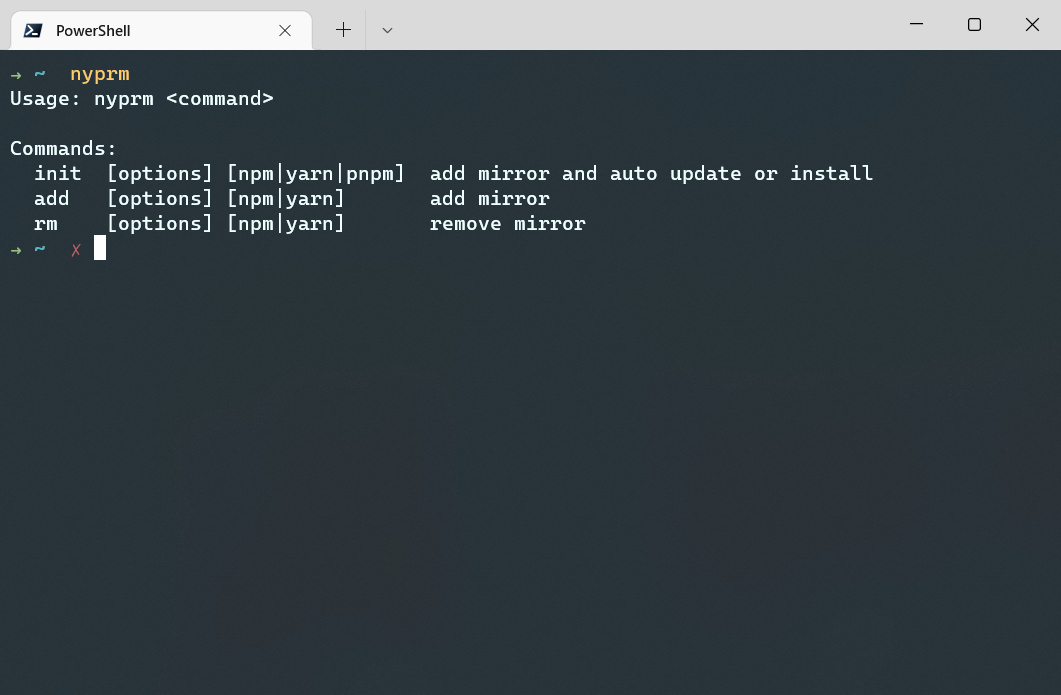
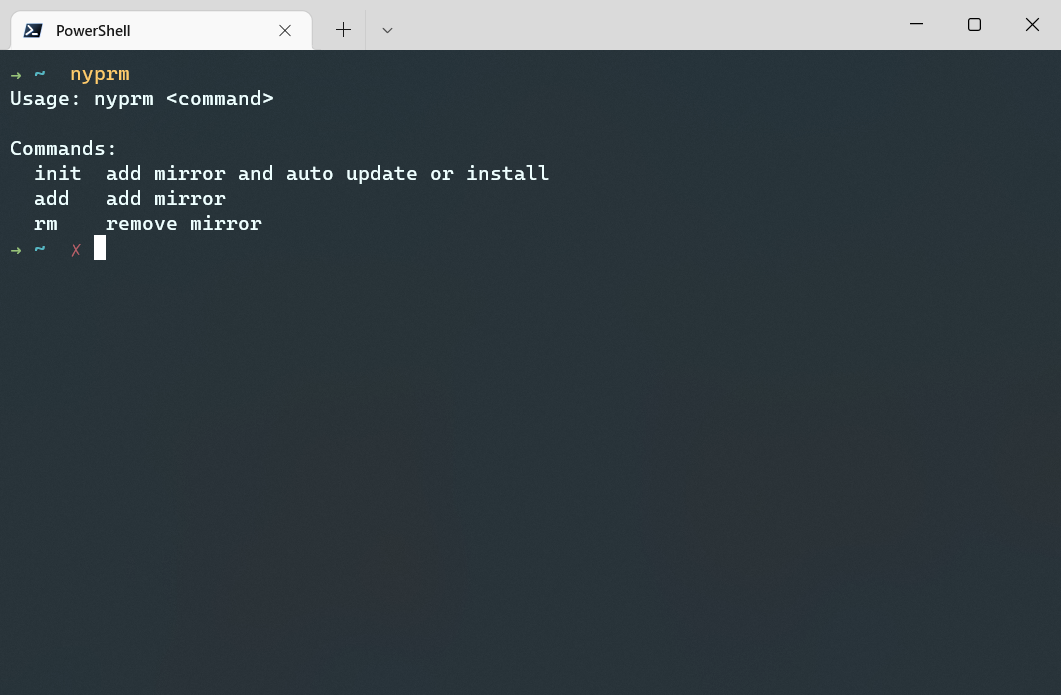
添加二进制文件镜像

Changed region(s): [[0.0933, 0.2417, 0.8087, 0.3324]]

diff --git a/nyprm.c b/nyprm.c
@@ -9,9 +9,9 @@ int main(int argc, char* argv[])
 		printf("Usage: nyprm <command>\n");
 		printf("\n");
 		printf("Commands:\n");
-		printf("  init  [options] [npm|yarn|pnpm]  add mirror and auto update or install\n");
-		printf("  add   [options] [npm|yarn]       add mirror\n");
-		printf("  rm    [options] [npm|yarn]       remove mirror\n");
+		printf("  init  add mirror and auto update or install\n");
+		printf("  add   add mirror\n");
+		printf("  rm    remove mirror\n");
 		return -1;
 	}
 	else if (argc == 2)
@@ -24,10 +24,47 @@ int main(int argc, char* argv[])
 
 			system("yarn config set registry https://registry.npmmirror.com/");
 
-			system("npm config set ELECTRON_MIRROR https://npmmirror.com/mirrors/electron/");
-			system("npm config set ELECTRON_BUILDER_BINARIES_MIRROR https://npmmirror.com/mirrors/electron-builder-binaries/");
-			system("yarn config set ELECTRON_MIRROR https://npmmirror.com/mirrors/electron/");
-			system("yarn config set ELECTRON_BUILDER_BINARIES_MIRROR https://npmmirror.com/mirrors/electron-builder-binaries/");
+			system("npm config set NODEJS_ORG_MIRROR https://cdn.npmmirror.com/binaries/node");
+			system("npm config set NVM_NODEJS_ORG_MIRROR https://cdn.npmmirror.com/binaries/node");
+			system("npm config set PHANTOMJS_CDNURL https://cdn.npmmirror.com/binaries/phantomjs");
+			system("npm config set CHROMEDRIVER_CDNURL https://cdn.npmmirror.com/binaries/chromedriver");
+			system("npm config set OPERADRIVER_CDNURL https://cdn.npmmirror.com/binaries/operadriver");
+			system("npm config set ELECTRON_MIRROR https://cdn.npmmirror.com/binaries/electron/");
+			system("npm config set ELECTRON_BUILDER_BINARIES_MIRROR https://cdn.npmmirror.com/binaries/electron-builder-binaries/");
+			system("npm config set SASS_BINARY_SITE https://cdn.npmmirror.com/binaries/node-sass");
+			system("npm config set SWC_BINARY_SITE https://cdn.npmmirror.com/binaries/node-swc");
+			system("npm config set NWJS_URLBASE https://cdn.npmmirror.com/binaries/nwjs/v");
+			system("npm config set PUPPETEER_DOWNLOAD_HOST https://cdn.npmmirror.com/binaries");
+			system("npm config set SENTRYCLI_CDNURL https://cdn.npmmirror.com/binaries/sentry-cli");
+			system("npm config set SAUCECTL_INSTALL_BINARY_MIRROR https://cdn.npmmirror.com/binaries/saucectl");
+			system("npm config set RE2_DOWNLOAD_MIRROR https://cdn.npmmirror.com/binaries/node-re2");
+			system("npm config set RE2_DOWNLOAD_SKIP_PATH true");
+			system("npm config set npm_config_keytar_binary_host https://cdn.npmmirror.com/binaries/keytar");
+			system("npm config set npm_config_sharp_binary_host https://cdn.npmmirror.com/binaries/sharp");
+			system("npm config set npm_config_sharp_libvips_binary_host https://cdn.npmmirror.com/binaries/sharp-libvips");
+			system("npm config set npm_config_robotjs_binary_host https://cdn.npmmirror.com/binaries/robotjs");
+
+			system("yarn config set NODEJS_ORG_MIRROR https://cdn.npmmirror.com/binaries/node");
+			system("yarn config set NVM_NODEJS_ORG_MIRROR https://cdn.npmmirror.com/binaries/node");
+			system("yarn config set PHANTOMJS_CDNURL https://cdn.npmmirror.com/binaries/phantomjs");
+			system("yarn config set CHROMEDRIVER_CDNURL https://cdn.npmmirror.com/binaries/chromedriver");
+			system("yarn config set OPERADRIVER_CDNURL https://cdn.npmmirror.com/binaries/operadriver");
+			system("yarn config set ELECTRON_MIRROR https://cdn.npmmirror.com/binaries/electron/");
+			system("yarn config set ELECTRON_BUILDER_BINARIES_MIRROR https://cdn.npmmirror.com/binaries/electron-builder-binaries/");
+			system("yarn config set SASS_BINARY_SITE https://cdn.npmmirror.com/binaries/node-sass");
+			system("yarn config set SWC_BINARY_SITE https://cdn.npmmirror.com/binaries/node-swc");
+			system("yarn config set NWJS_URLBASE https://cdn.npmmirror.com/binaries/nwjs/v");
+			system("yarn config set PUPPETEER_DOWNLOAD_HOST https://cdn.npmmirror.com/binaries");
+			system("yarn config set SENTRYCLI_CDNURL https://cdn.npmmirror.com/binaries/sentry-cli");
+			system("yarn config set SAUCECTL_INSTALL_BINARY_MIRROR https://cdn.npmmirror.com/binaries/saucectl");
+			system("yarn config set RE2_DOWNLOAD_MIRROR https://cdn.npmmirror.com/binaries/node-re2");
+			system("yarn config set RE2_DOWNLOAD_SKIP_PATH true");
+			system("yarn config set npm_config_keytar_binary_host https://cdn.npmmirror.com/binaries/keytar");
+			system("yarn config set npm_config_sharp_binary_host https://cdn.npmmirror.com/binaries/sharp");
+			system("yarn config set npm_config_sharp_libvips_binary_host https://cdn.npmmirror.com/binaries/sharp-libvips");
+			system("yarn config set npm_config_robotjs_binary_host https://cdn.npmmirror.com/binaries/robotjs");
+		
+			system("yarn config set -- --emoji true");
 		}
 		else if (strcmp(argv[1], "add") == 0)
 		{
@@ -38,79 +75,6 @@ int main(int argc, char* argv[])
 		{
 			system("npm config set registry https://registry.npmjs.org");
 			system("yarn config set registry https://registry.yarnpkg.com/");
-		}
-		else
-		{
-			return -1;
-		}
-	}
-	else if (argc == 3)
-	{
-		if (strcmp(argv[1], "init") == 0)
-		{
-			if (strcmp(argv[2], "npm") == 0)
-			{
-				system("npm config set registry https://registry.npmmirror.com/");
-
-				system("npm i -g npm");
-
-				system("npm config set ELECTRON_MIRROR https://npmmirror.com/mirrors/electron/");
-				system("npm config set ELECTRON_BUILDER_BINARIES_MIRROR https://npmmirror.com/mirrors/electron-builder-binaries/");
-			}
-			else if (strcmp(argv[2], "yarn") == 0)
-			{
-				system("npm config set registry https://registry.npmmirror.com/");
-
-				system("npm i -g npm yarn");
-
-				system("npm config set ELECTRON_MIRROR https://npmmirror.com/mirrors/electron/");
-				system("npm config set ELECTRON_BUILDER_BINARIES_MIRROR https://npmmirror.com/mirrors/electron-builder-binaries/");
-				system("yarn config set ELECTRON_MIRROR https://npmmirror.com/mirrors/electron/");
-				system("yarn config set ELECTRON_BUILDER_BINARIES_MIRROR https://npmmirror.com/mirrors/electron-builder-binaries/");
-			}
-			else if (strcmp(argv[2], "pnpm") == 0)
-			{
-				system("npm config set registry https://registry.npmmirror.com/");
-
-				system("npm i -g npm pnpm");
-
-				system("npm config set ELECTRON_MIRROR https://npmmirror.com/mirrors/electron/");
-				system("npm config set ELECTRON_BUILDER_BINARIES_MIRROR https://npmmirror.com/mirrors/electron-builder-binaries/");
-			}
-			else
-			{
-				return -1;
-			}
-		}
-		else if (strcmp(argv[1], "add") == 0)
-		{
-			if (strcmp(argv[2], "npm") == 0)
-			{
-				system("npm config set registry https://registry.npmmirror.com/");
-			}
-			else if (strcmp(argv[2], "yarn") == 0)
-			{
-				system("yarn config set registry https://registry.npmmirror.com/");
-			}
-			else
-			{
-				return -1;
-			}
-		}
-		else if (strcmp(argv[1], "rm") == 0)
-		{
-			if (strcmp(argv[2], "npm") == 0)
-			{
-				system("npm config set registry https://registry.npmjs.org/");
-			}
-			else if (strcmp(argv[2], "yarn") == 0)
-			{
-				system("yarn config set registry https://registry.yarnpkg.com/");
-			}
-			else
-			{
-				return -1;
-			}
 		}
 		else
 		{

diff --git a/README.md b/README.md
@@ -8,26 +8,18 @@
 
 该工具的镜像站只有 [npmmirror 中国镜像站](https://npmmirror.com/)
 
-然后我自己加了 electron 和 electron-builder 的镜像
-
 ## 如何使用
 
 添加到用户环境变量中，或者使用终端工具运行。
 
-![image-20220508191524225](nyprm.png)
+![image-20220513124017304](nyprm.png)
 
 ### init
 
-同时为 npm yarn pnpm 添加镜像并自动更新或安装
+同时为 npm yarn pnpm 以及二进制添加镜像并自动更新或安装
 
 ```bash
 nyprm init
-```
-
-为 npm 或 yarn 或 pnpm 添加镜像并自动更新或安装
-
-```bash
-nyprm init npm # yarn | pnpm
 ```
 
 ### add
@@ -38,24 +30,10 @@ nyprm init npm # yarn | pnpm
 nyprm add
 ```
 
-为 npm 或 yarn 添加镜像
-
-```bash
-nyprm add npm # yarn
-```
-
-> 注：pnpm 使用 npm 的镜像
-
 ### rm
 
 同时为 npm yarn pnpm 去除镜像
 
 ```bash
 nyprm rm
-```
-
-为 npm 或 yarn 去除镜像
-
-```bash
-nyprm rm npm # yarn
 ```
